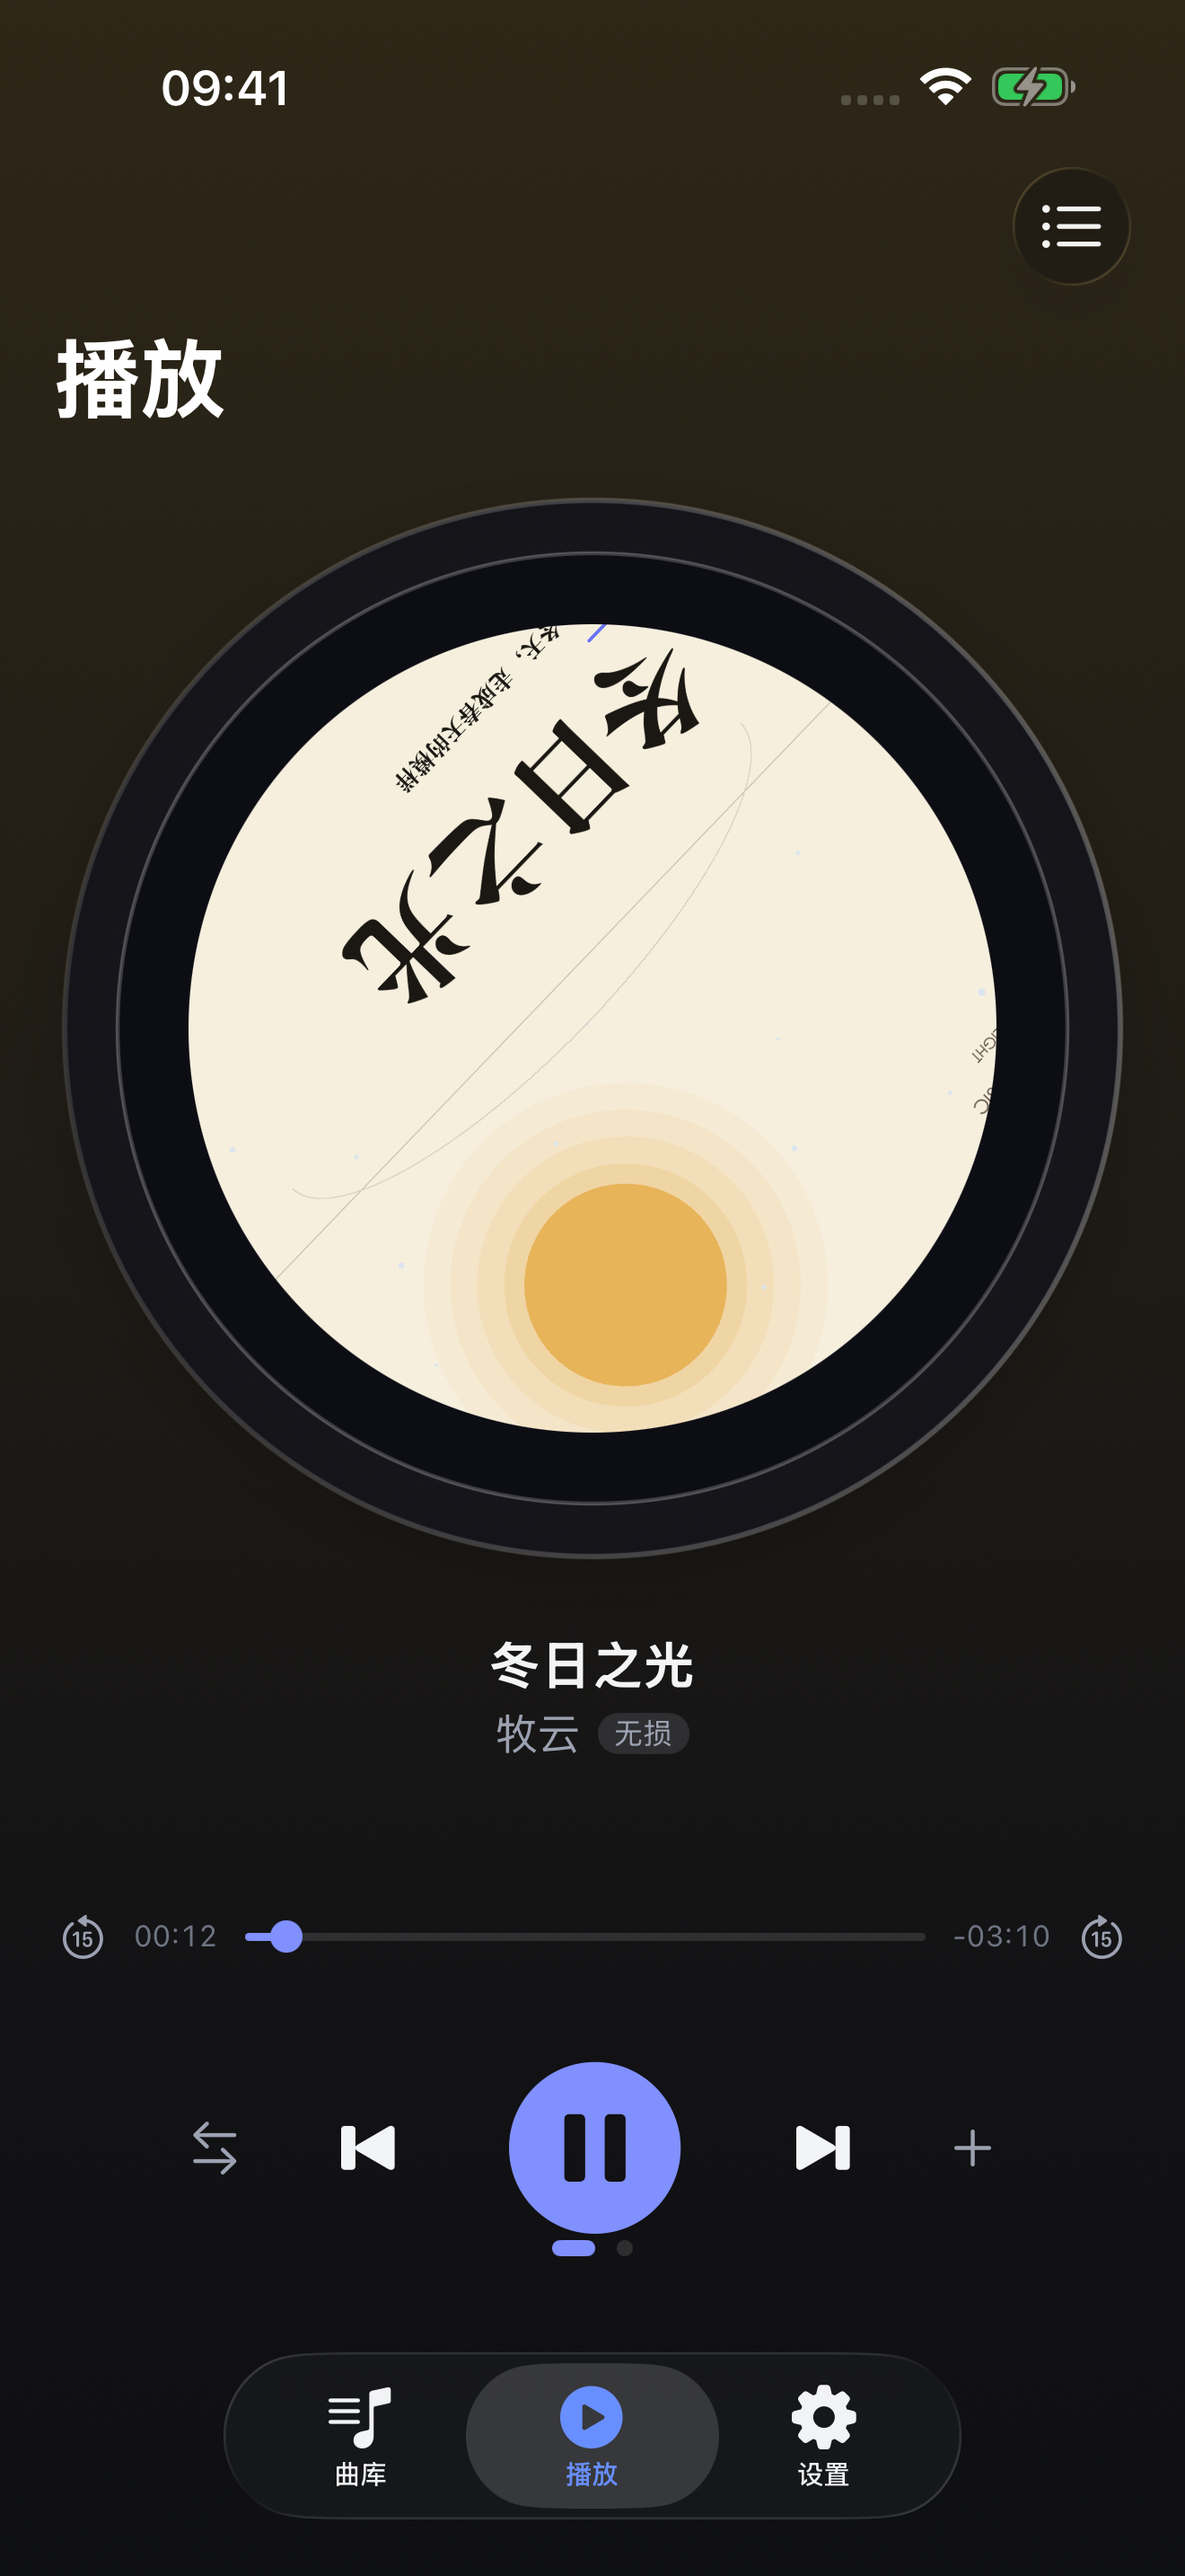
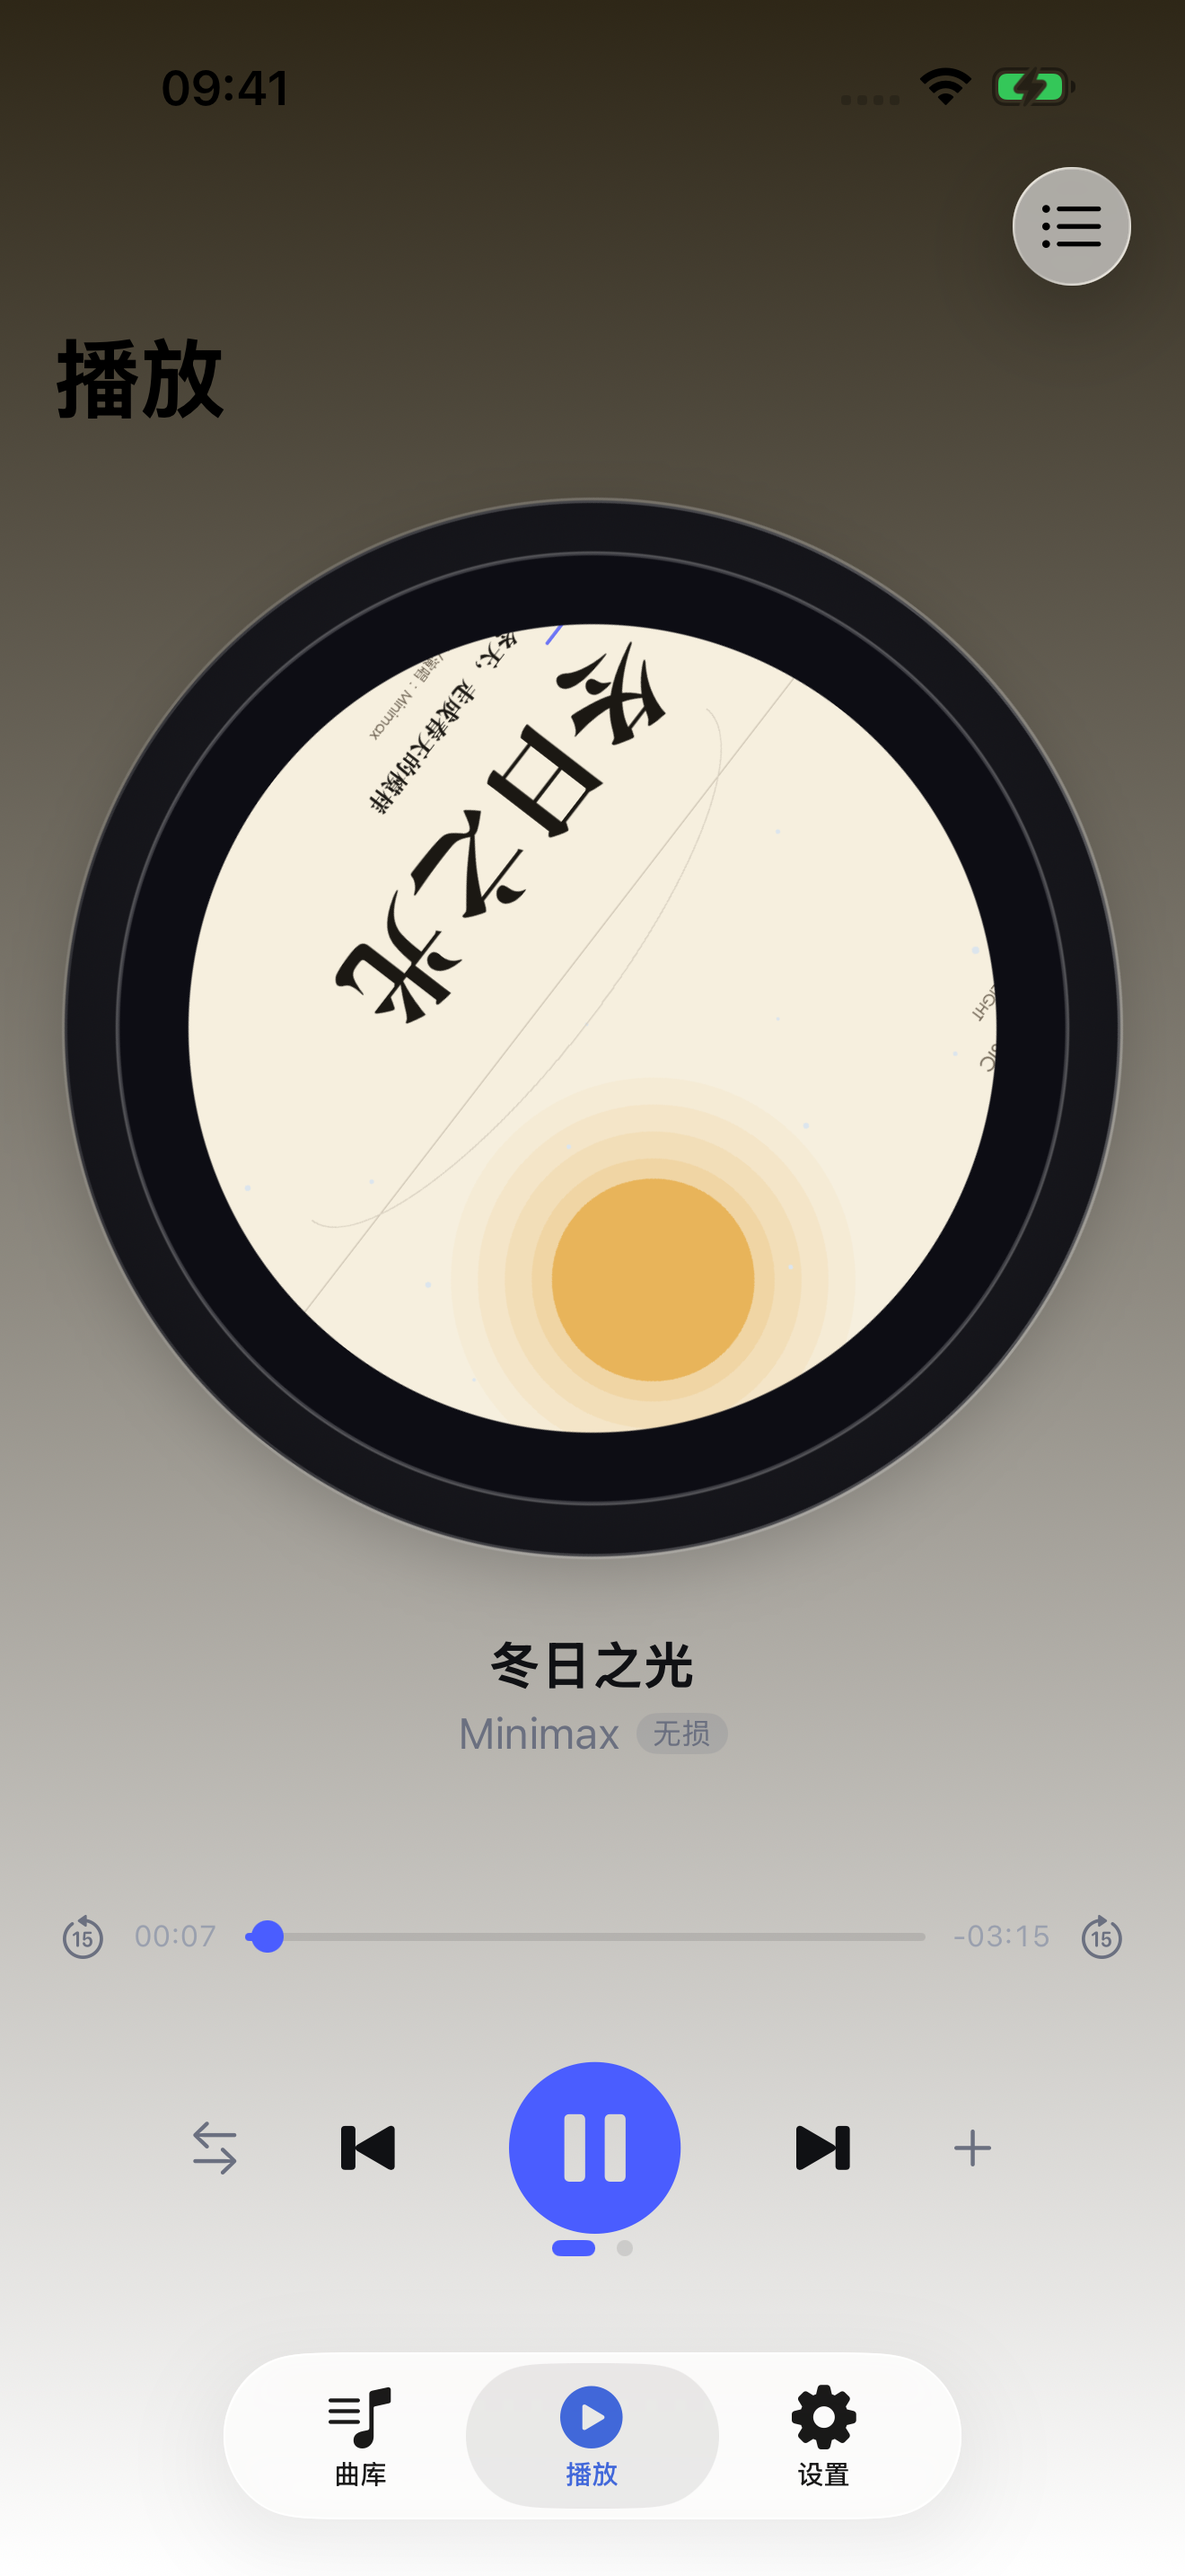
muyunmusic：《冬日之光》署名同步为词 Deepseek、曲/演唱 Minimax

diff --git a/muyunmusic/APP_STORE_LISTING.md b/muyunmusic/APP_STORE_LISTING.md
@@ -233,8 +233,8 @@ iPad 四张：
 No demo account is required. To test: open the system Files app, long-press any
 mp3/m4a/flac file, choose "Open with MuYun Music", then play it.
 
-The app ships one owner-supplied track, "Winter Light" (冬日之光), written,
-composed and performed by 牧云, with its lyrics and cover, plus no catalog, no recommendations, and no account system.
+The app ships one owner-supplied track, "Winter Light" (冬日之光), with
+lyrics by Deepseek and music/performance by Minimax, plus its cover, plus no catalog, no recommendations, and no account system.
 Apart from that one track, everything it plays comes from files the user imports
 or addresses the user enters. The bundled track is original/owner-provided; it
 is not third-party catalog content.
@@ -278,7 +278,7 @@ tracking, or third-party SDKs.
 长按选「用此 App 打开」导入，即可完整体验。
 
 除随包一曲《冬日之光》外，App 不内置任何音频、曲库、推荐或账号系统。所有其他内容来自用户导入的文件或
-用户自己填写的地址。随包曲目词/曲/演唱均为牧云，歌词带行级时间轴，App 内可逐行同步。
+用户自己填写的地址。随包曲目词：Deepseek、曲/演唱：Minimax，歌词带行级时间轴，App 内可逐行同步。
 
 网络只在用户明确操作时发生：
 1) 可选的家庭影音服务器：用户在设置里填自己的服务器地址（或扫服务器首页
@@ -315,7 +315,7 @@ IPTV / 牧云音乐 · 本地曲库）。「账号 + 概念相似度」这条 4.
 
 1. **内置内容可静态核验**：`Shared/AppIdentifiers.builtinSourceURLs = []`、
    `hasBundledSampleSongs = false` 都有 LogicTests 断言守着；bundle 内只有
-   词/曲/演唱均为牧云的 1 首《冬日之光》（WAV + 带时间轴 LRC + 封面），清空曲库后
+   词：Deepseek、曲/演唱：Minimax 的 1 首《冬日之光》（WAV + 带时间轴 LRC + 封面），清空曲库后
    不回填示例。
 2. **队列引擎是纯函数**：`Shared/QueueEngine.swift` 把 随机×循环(off/all/one)
    全部组合的下一首语义写成真值表，LogicTests 逐项覆盖；
@@ -391,7 +391,7 @@ IPTV / 牧云音乐 · 本地曲库）。「账号 + 概念相似度」这条 4.
 | 审核信息 → 演示账号 | **不需要**，备注里写明导入方法（§9） |
 | 审核信息 → 备注 | 粘贴 §9 英文版 |
 | 版本信息 → 版权 | `2026 Zhipeng Ge` |
-| 内容版权 (Content Rights) | **DOES_NOT_USE_THIRD_PARTY_CONTENT**——除随包一首词/曲/演唱均为牧云的《冬日之光》外，App 自身不含、不展示、不访问第三方内容；其余内容均来自用户导入/用户粘贴（与 MuyunTV 答卷同理，若审核对自填地址有异议按 §9 口径答） |
+| 内容版权 (Content Rights) | **DOES_NOT_USE_THIRD_PARTY_CONTENT**——除随包一首词：Deepseek、曲/演唱：Minimax 的《冬日之光》外，App 自身不含、不展示、不访问第三方内容；其余内容均来自用户导入/用户粘贴（与 MuyunTV 答卷同理，若审核对自填地址有异议按 §9 口径答） |
 | 出口合规 | 上传自动跳过（build setting 已 NO；产物已验） |
 | 价格 | §0，建 Record 当天定 |
 | 销售范围 | 所有国家/地区（若 EU 需要 DSA 交易者状态，按账号实际情况填） |

diff --git a/muyunmusic/screenshots/builtin/README.md b/muyunmusic/screenshots/builtin/README.md
@@ -3,8 +3,8 @@
 模拟器实拍，不是 App Store 槽位（ASC 仍用 `../iphone`、`../ipad` 的 4+4 连续全景）。
 用于证明随包曲目首启落地、封面、3:22 播放与带时间轴歌词的逐行展示。
 
-- `library.png`：曲库第一行「冬日之光」，9 首（8 首截图演示 + 内置 1 首），3:22、无损
-- `player.png`：唱片面，封面/标题/时长/播放进度
-- `lyrics.png`：歌词面，点「冬天也有 冬天自己的光」跳转到对应时间轴，当前行高亮
+- `library.png`：全新安装的曲库只有「冬日之光」1 首，Minimax、3:22、无损
+- `player.png`：唱片面，封面/标题/Minimax 署名/时长/播放进度
+- `lyrics.png`：歌词面，顶部「词：Deepseek　曲/演唱：Minimax」；点「冬天也有 冬天自己的光」跳到对应时间轴并高亮
 
-曲目词/曲/演唱均为牧云（WAV + LRC + 原创封面），不是第三方曲库；上架前确认发行权。
+曲目词：Deepseek、曲/演唱：Minimax（WAV + LRC + 原创封面），不是第三方曲库；上架前确认发行权。
